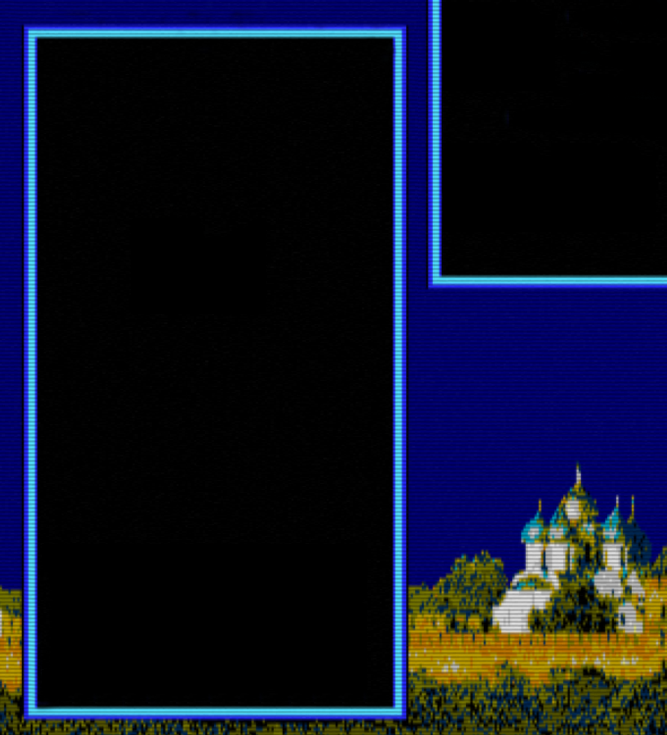
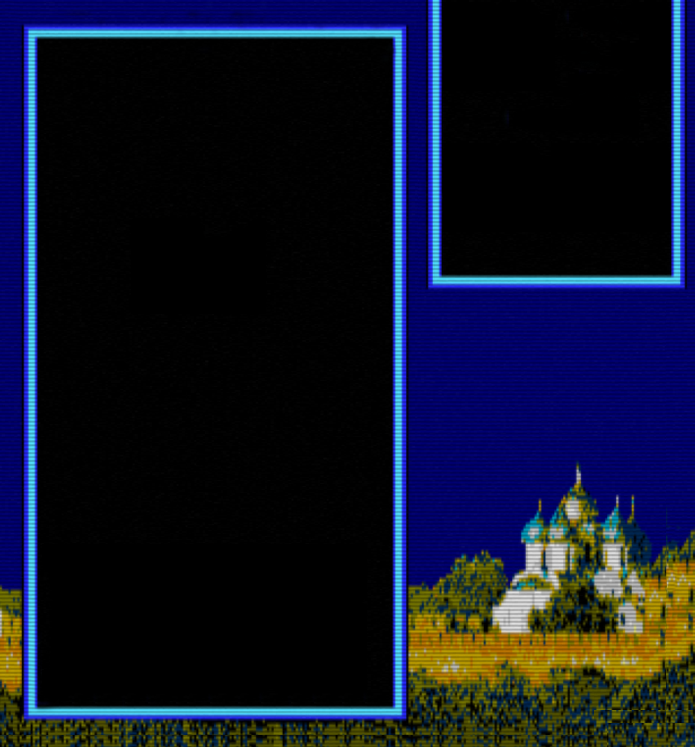
design microchanges

Changed region(s): [[0.0, 0.0, 1.0, 1.0]]

diff --git a/src/res/styles.css b/src/res/styles.css
@@ -25,6 +25,10 @@
     -fx-font-size: 14px;
 }
 
+.button.saves {
+    -fx-background-image: url('saves.png');
+}
+
 .check-box.mute {
     -fx-background-image: url('unmute.png');
 }

diff --git a/src/by/alexpat/tetris/InfoBox.java b/src/by/alexpat/tetris/InfoBox.java
@@ -57,9 +57,23 @@ public class InfoBox extends VBox {
                 gameController.getBoard().requestFocus();
             }
         });
+
+        Button savesButton = new Button();
+        savesButton.getStyleClass().add("saves");
+        savesButton.setMinSize(64, 64);
+        savesButton.setMaxSize(64, 64);
+        savesButton.setOnAction(new EventHandler<ActionEvent>() {
+            @Override
+            public void handle(ActionEvent actionEvent) {
+                gameController.getSaveManager().showRecords();
+            }
+        });
+
         HBox checkBoxes = new HBox();
+        checkBoxes.setAlignment(Pos.CENTER);
         checkBoxes.getChildren().add(muteCheckBox);
         checkBoxes.getChildren().add(botCheckBox);
+        checkBoxes.getChildren().add(savesButton);
 
         Slider sliderMusicVolume = new Slider();
         sliderMusicVolume.setMin(0);
@@ -172,10 +186,7 @@ public class InfoBox extends VBox {
         getChildren().add(btnPause);
         getChildren().add(btnStop);
 
-        Label lblInfo = new Label(
-                        "▲ ▼ ◀ ▶ SPACE for movement\n" +
-                        "Press R to see records \n" +
-                        "and see replay.");
+        Label lblInfo = new Label("▲ ▼ ◀ ▶ SPACE for movement");
 
         getChildren().add(lblInfo);
 

diff --git a/src/by/alexpat/tetris/Tetris.java b/src/by/alexpat/tetris/Tetris.java
@@ -81,10 +81,6 @@ public class Tetris extends HBox {
                     }
                 }
 
-                if (keyEvent.getCode() == KeyCode.R) {
-                    gameController.getSaveManager().showRecords();
-                }
-
                 if (keyEvent.getCode() == KeyCode.SPACE && !gameController.pausedProperty().get()) {
                     gameController.getBoard().dropDown('?');
                     keyEvent.consume();
